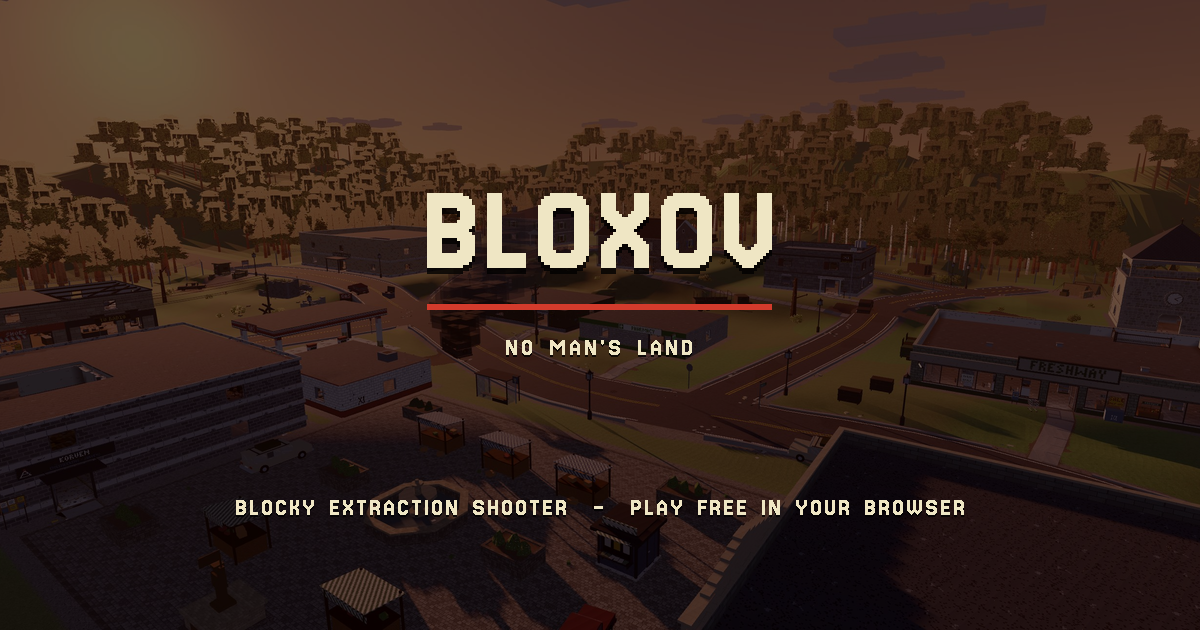
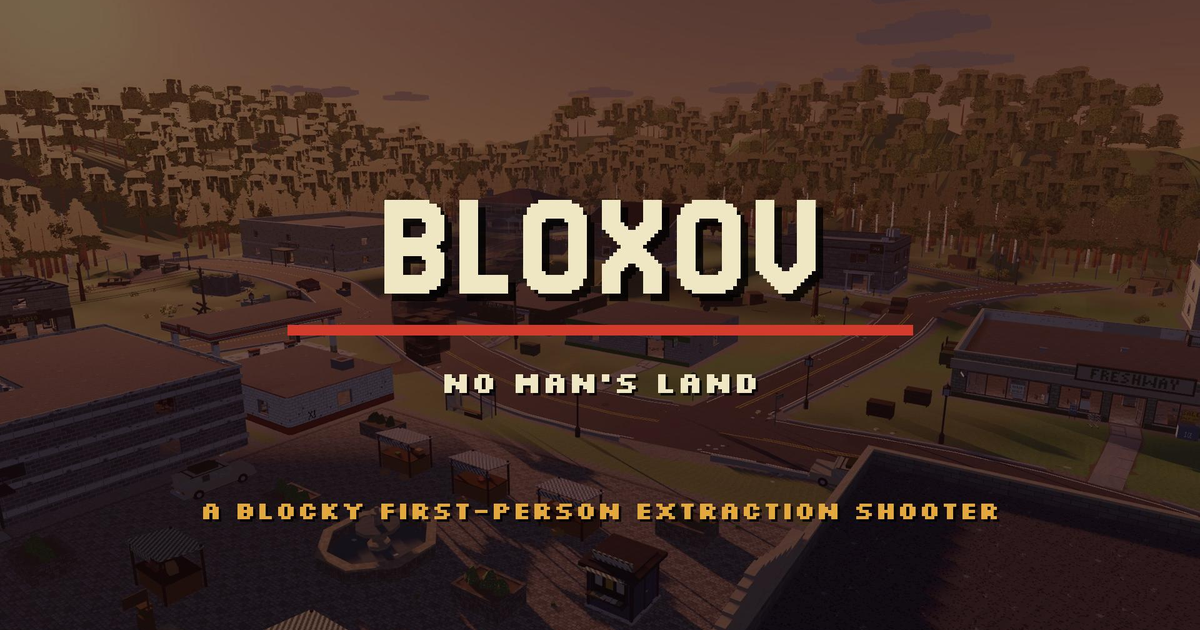
v0.27.2: Poster look (main screen laid out like brag.jpg; web loading picture and link preview are the poster)

diff --git a/tools/make_web_branding.py b/tools/make_web_branding.py
@@ -1,9 +1,9 @@
 """Makes the web page's Bloxov pictures: the loading-screen splash, the icon (favicon) and the link preview.
 
 Run from the repo root: python3 tools/make_web_branding.py  (add --icons for only the web/brand icon sizes)
-- assets/textures/boot_splash.png  shown while the game downloads (project setting application/boot_splash/image)
+- assets/textures/boot_splash.png  shown while the game downloads (the poster, art_source/brag.jpg) (project setting application/boot_splash/image)
 - assets/icons/bloxov_icon.png     game icon, the web export makes the favicon from it (config/icon)
-- web/brand/preview.png            1200x630 picture Discord etc. show for a pasted link (og:image, CI copies it)
+- web/brand/preview.png            1200x630 crop of the poster, Discord etc. show for a pasted link (og:image, CI copies it)
 - web/brand/icon-48/96/192.png + favicon.ico   the icon at sizes Google search accepts (square, a multiple of
                                    48 px; the 256 px game icon isn't), linked from the page by tools/web_seo.py
 Pixel fonts are drawn 1:1 then scaled up with nearest-neighbour, like the title screen's logo.
@@ -69,17 +69,25 @@ def centred(bg, block, y_shift=0):
     return bg
 
 
-def main():
-    # Splash: the web page shows it centred over the dark background while the game downloads.
-    splash = backdrop((1280, 720), 0.45)
-    centred(splash, logo_block(3), -30).convert("RGB").save("assets/textures/boot_splash.png")
+POSTER = "art_source/brag.jpg"   # (0.27.2, owner's favourite picture: "use the brag.jpg for... posters title screen etc")
 
-    # Link preview (1200x630 is what Discord, X and Facebook expect).
-    prev = backdrop((1200, 630), 0.5)
-    centred(prev, logo_block(3), -40)
-    tag = pixel_text("BLOCKY EXTRACTION SHOOTER  -  PLAY FREE IN YOUR BROWSER", SUB_FONT, 30, 1, INK, spacing=2)
-    prev.alpha_composite(tag, ((prev.width - tag.width) // 2, 500))
-    prev.convert("RGB").save("web/brand/preview.png")
+
+def poster(size):
+    """The poster (art_source/brag.jpg, 1920x1080), scaled to cover `size` and cropped from the middle."""
+    src = Image.open(POSTER).convert("RGB")
+    tw, th = size
+    k = max(tw / src.width, th / src.height)
+    src = src.resize((round(src.width * k), round(src.height * k)), Image.LANCZOS)
+    left = (src.width - tw) // 2
+    top = (src.height - th) // 2
+    return src.crop((left, top, left + tw, top + th))
+
+
+def main():
+    # Splash: the web page shows it while the game downloads. Link preview: 1200x630 is what Discord, X and Facebook
+    # expect. Both are the poster since 0.27.2 (before: the dusk view with the logo drawn here, backdrop()/logo_block()).
+    poster((1280, 720)).save("assets/textures/boot_splash.png", optimize=True)
+    poster((1200, 630)).save("web/brand/preview.png", optimize=True)
 
     # Icon: a big "B" on the dark HUD colour with the red bar under it.
     icon = Image.new("RGBA", (256, 256), DEEP + (255,))

diff --git a/CHANGELOG.md b/CHANGELOG.md
@@ -7,6 +7,16 @@ updates went out as 0.7.12-0.7.15 and were renumbered afterwards (owner). 0.11 =
 (owner's name: code cleanup, then the map turned into a war zone: craters, wrecks, blown-out buildings, trenches, hills). Update names (owner asked, 2026-10-11): 0.12 Hot Zone (Scavs 2.0), 0.13 Over the Top
 (Movement), 0.14 Spoils of War (Items), 0.15 the Guns update, 0.16 the Economy update, 0.17 the World art update (built on a branch, released all at once as 0.18.0), 0.19 the Look update, 0.20 the Sound update (owner: only ADD sounds, today's stay as they are), 0.21 the Hideout update (the walkable hideout), 0.22 World Reacts (things that look solid are solid; lamps, bushes, curtains and cans react), 0.23 jointed characters (name to come from the owner), 0.24 the new-player tutorial (built on a branch while 0.23 is open), 0.25 **Checkpoint** (the security update: anti-cheat and server checks), 0.26 Keybinds (rebinding in OPTIONS), 0.27 Durability (wear and trader repairs). -->
 
+## 0.27.2 (Poster look)
+- The owner's favourite picture (brag.jpg, now kept as `art_source/brag.jpg`) is the game's poster: owner, "use the
+  brag.jpg for like our main screens like posters title screen etc, i like that picture a lot".
+- Main screen laid out like it: the dusk town darkened warm, BLOXOV big in the middle with the red bar, NO MAN'S LAND
+  and the gold "A BLOCKY FIRST-PERSON EXTRACTION SHOOTER" line, then PLAY with OPTIONS / PRIVACY / CREDITS in a row under
+  it. Drawn live (not the picture itself) so it fits wide phones and narrow screens; the town still drifts behind it.
+  OPTIONS, PRIVACY and CREDITS open in the middle, where the name was.
+- bloxov.com's loading picture (while the game downloads) and the link preview Discord/Google show are now the
+  poster itself (`tools/make_web_branding.py`). The icon/favicon is unchanged.
+
 ## 0.27.1 (The officer's flag waves)
 - The Exion flag on the officer's house (the big house on the hill) waved about as much as a sheet of plywood (owner:
   "that flag should have like kinda a waving animation instead of being stiff"). It now ripples in the wind: waves
